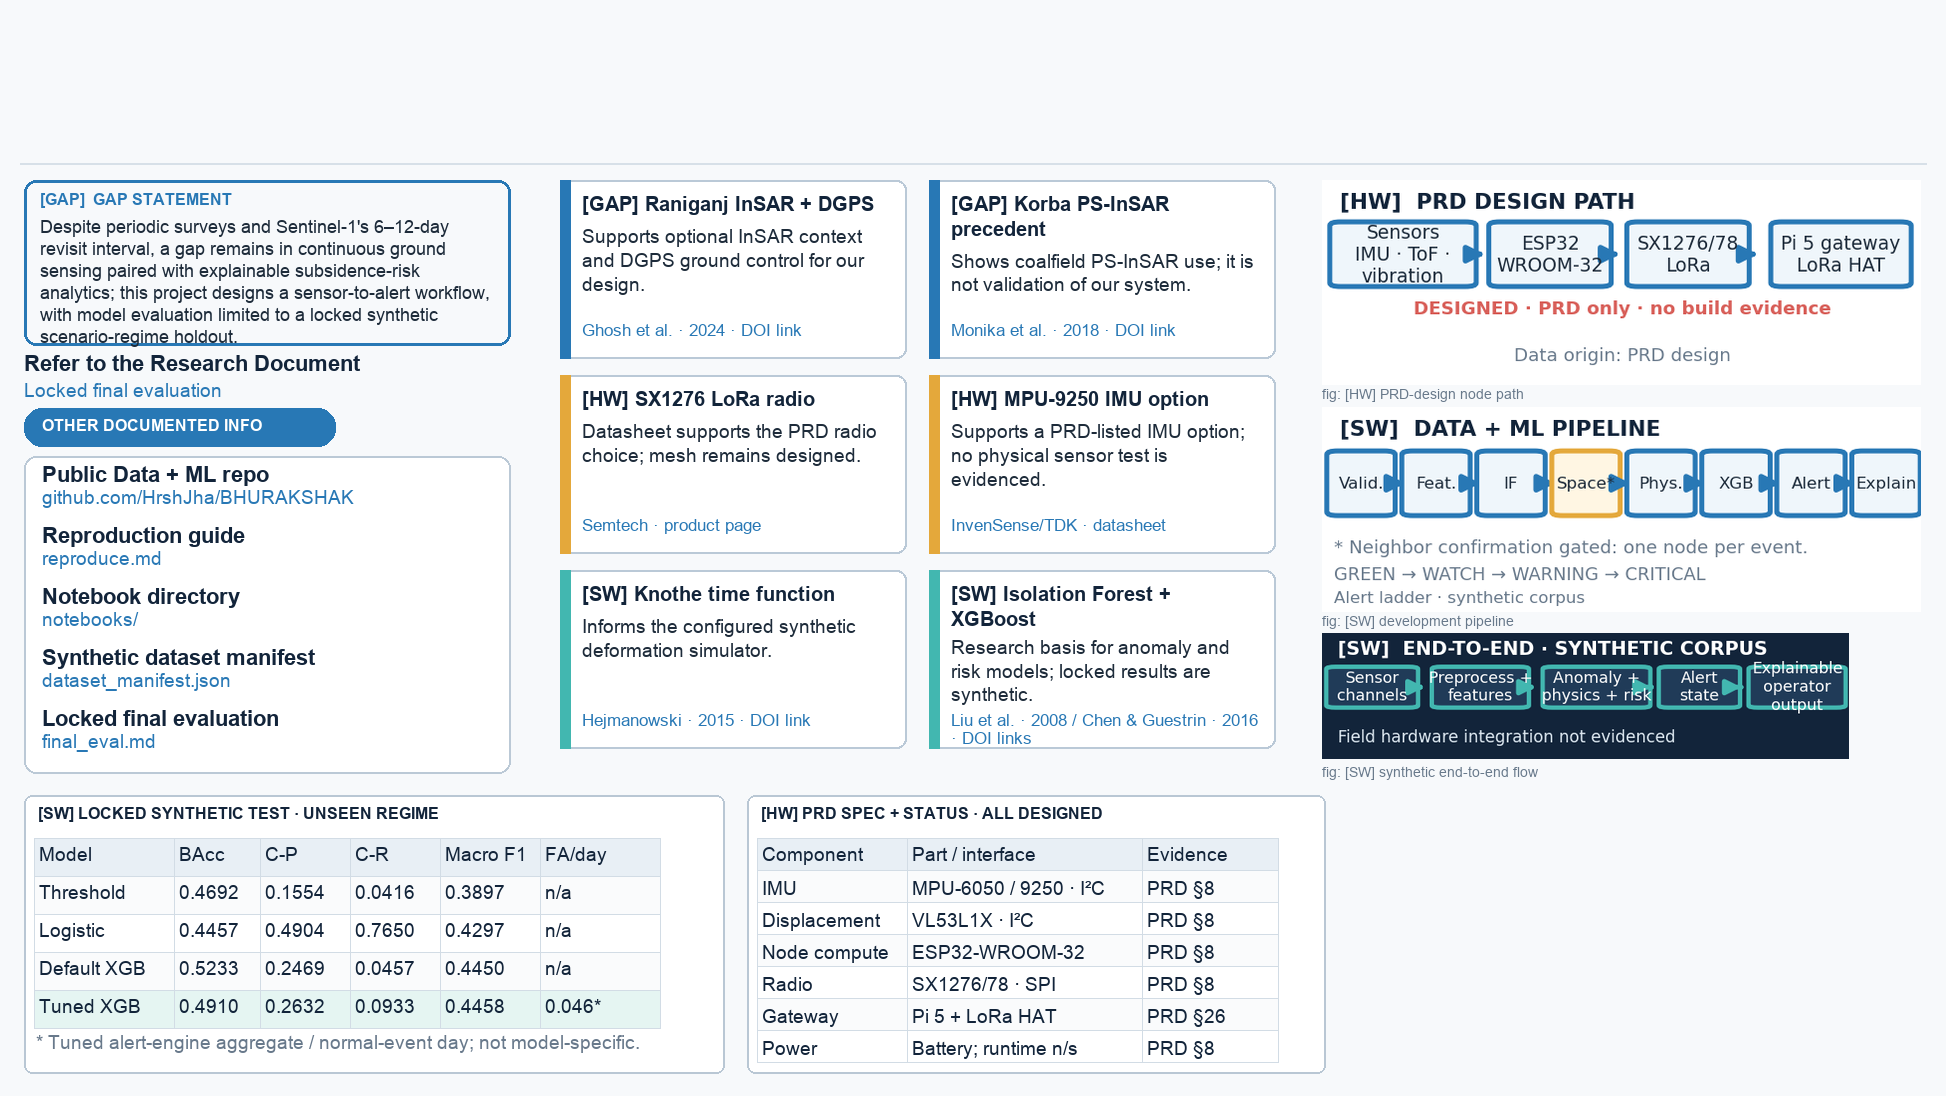
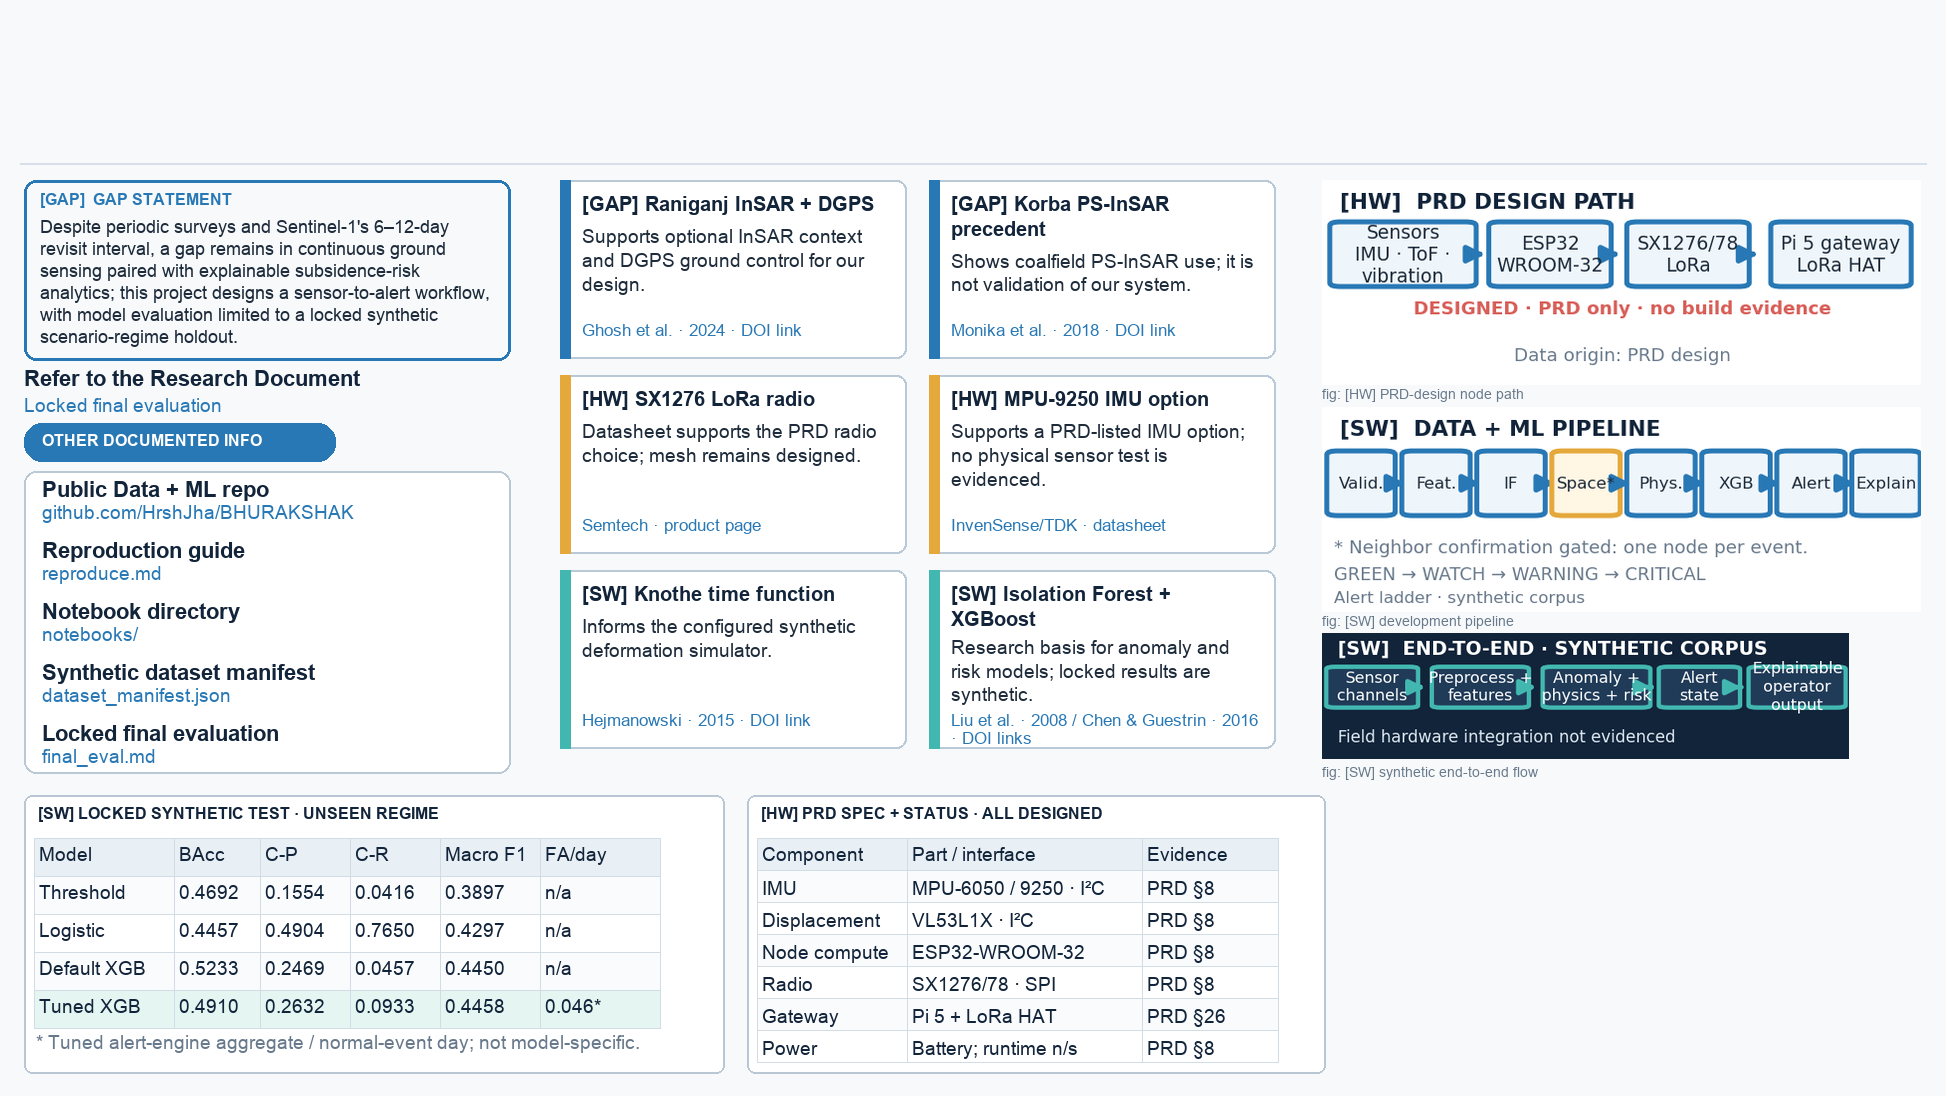
chore: regenerate research slide figures and preview image

Changed region(s): [[0.0, 0.3102, 0.2775, 0.7135]]

diff --git a/submit/research_slide/slide_text.md b/submit/research_slide/slide_text.md
@@ -17,7 +17,7 @@ Each card is tagged and ends in the cited DOI/product URL. Titles and takeaways 
 1. **[GAP] Raniganj InSAR + DGPS** — Ghosh et al.; Geomatics, Natural Hazards and Risk (2024). **Takeaway (11 words):** Supports optional InSAR context and DGPS ground control for our design. [DOI](https://doi.org/10.1080/19475705.2024.2375546)
 2. **[GAP] Korba PS-InSAR precedent** — Monika et al.; ISPRS Archives (2018). **Takeaway (11 words):** Shows coalfield PS-InSAR use; it is not validation of our system. [DOI](https://doi.org/10.5194/isprs-archives-XLII-5-427-2018)
 3. **[HW] SX1276 LoRa radio** — Semtech product page and datasheet. **Takeaway (9 words):** Datasheet supports the PRD radio choice; mesh remains designed. [Product page](https://www.semtech.com/products/wireless-rf/lora-connect/sx1276)
-4. **[HW] MPU-9250 sensor datasheet** — InvenSense/TDK Product Specification. **Takeaway (16 words):** The MPU-9250 specification supports a PRD-listed IMU option; no physical sensor measurement is evidenced here. [Datasheet](https://invensense.tdk.com/wp-content/uploads/2015/02/PS-MPU-9250A-01-v1.1.pdf)
+4. **[HW] MPU-9250 IMU option** — InvenSense/TDK Product Specification. **Takeaway (11 words):** Supports a PRD-listed IMU option; no physical sensor test is evidenced. [Datasheet](https://invensense.tdk.com/wp-content/uploads/2015/02/PS-MPU-9250A-01-v1.1.pdf)
 5. **[SW] Knothe time function** — Hejmanowski; International Journal of Coal Science & Technology (2015). **Takeaway (8 words):** Informs the configured synthetic deformation simulator. [DOI](https://doi.org/10.1007/s40789-015-0092-z)
 6. **[SW] Isolation Forest + XGBoost** — Liu et al. (2008); Chen & Guestrin (2016). **Takeaway (12 words):** Research basis for anomaly and risk models; locked results are synthetic. [Isolation Forest DOI](https://doi.org/10.1109/ICDM.2008.17) · [XGBoost DOI](https://doi.org/10.1145/2939672.2939785)
 
@@ -34,7 +34,7 @@ Each card is tagged and ends in the cited DOI/product URL. Titles and takeaways 
 
 - **fig: [HW] PRD-design node and gateway path.** Sensor suite → ESP32-WROOM-32 → SX1276/SX1278 LoRa → Raspberry Pi 5 gateway → uplink. All blocks are **DESIGNED (PRD only)**; this repository has no physical build evidence. Data origin: PRD design.
 - **fig: [SW] Data + ML pipeline.** Packet validation → feature windows → Isolation Forest → spatial fusion → physics check → XGBoost → persistence alert engine → explainable output. Spatial neighbor confirmation is gated by single-node events. Data origin: synthetic corpus.
-- **fig: [SW] End-to-end workflow.** Synthetic multi-sensor channels → preprocessing/features → anomaly, physics and risk layers → alert state → explainable operator output. No field integration is implied. Data origin: synthetic corpus.
+- **fig: [SW] End-to-end workflow.** Synthetic multi-sensor channels → preprocessing/features → anomaly, physics and risk layers → alert state → explainable operator output. No field integration is implied. Stages follow src/pipeline.py order, not parallel execution. Data origin: synthetic corpus.
 
 ## Locked synthetic results table
 
@@ -65,9 +65,48 @@ Every row is **DESIGNED** from the PRD; no hardware is marked built or prototype
 **Chart omitted:** the “tabletop” dataset is a generated synthetic stand-in, not a physical rig log; model-specific false alarms/day are not retained. Neither requested chart can be supported by this repository.
 
 
-## Copy length check
+## Paste-block word and character counts
 
-- Gap option A: 42 words.
-- Gap option B: 37 words.
-- Gap option C: 40 words.
-- Card titles: all at most 8 words; takeaways: 16–18 words each. URLs and citation metadata are excluded from the word count.
+Visible words and characters are counted after removing Markdown formatting and excluding hyperlink target URLs. The title and takeaway are counted separately for each card; the card-visible total includes its citation line.
+
+| Block | Words | Characters |
+|---|---:|---:|
+| Gap option A | 44 | 317 |
+| Gap option B | 42 | 288 |
+| Gap option C | 40 | 274 |
+
+| Block | Words | Characters |
+|---|---:|---:|
+| Card 1 title | 3 | 21 |
+| Card 1 takeaway | 11 | 71 |
+| Card 1 full visible copy | 25 | 166 |
+| Card 2 title | 4 | 24 |
+| Card 2 takeaway | 12 | 65 |
+| Card 2 full visible copy | 24 | 143 |
+| Card 3 title | 3 | 17 |
+| Card 3 takeaway | 9 | 63 |
+| Card 3 full visible copy | 20 | 141 |
+| Card 4 title | 4 | 19 |
+| Card 4 takeaway | 12 | 71 |
+| Card 4 full visible copy | 22 | 150 |
+| Card 5 title | 3 | 20 |
+| Card 5 takeaway | 6 | 55 |
+| Card 5 full visible copy | 19 | 163 |
+| Card 6 title | 3 | 26 |
+| Card 6 takeaway | 11 | 73 |
+| Card 6 full visible copy | 27 | 189 |
+
+| Block | Words | Characters |
+|---|---:|---:|
+| Link-box line 1 | 8 | 50 |
+| Link-box line 2 | 5 | 43 |
+| Link-box line 3 | 9 | 70 |
+| Link-box line 4 | 7 | 51 |
+| Link-box line 5 | 6 | 47 |
+| Link-box line 6 | 19 | 117 |
+
+| Block | Words | Characters |
+|---|---:|---:|
+| Figure caption 1 | 37 | 233 |
+| Figure caption 2 | 33 | 264 |
+| Figure caption 3 | 39 | 287 |
